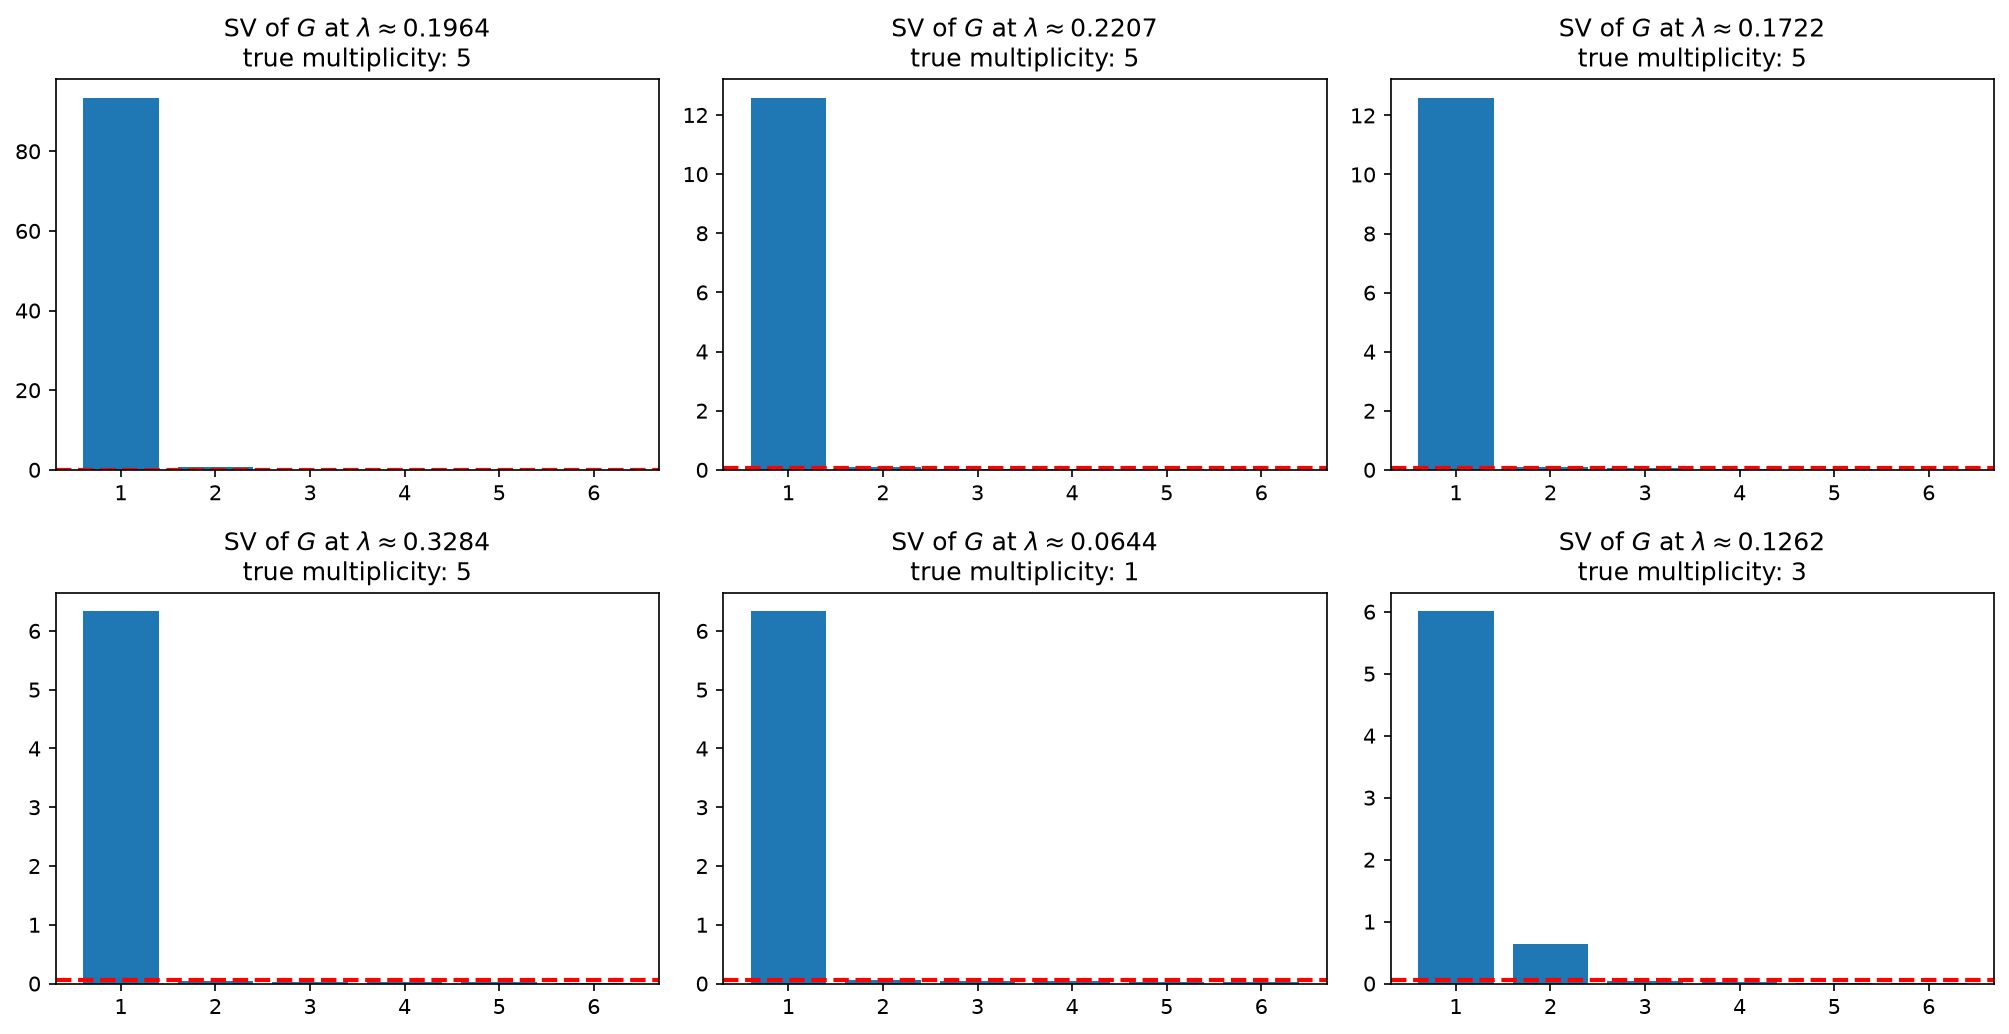
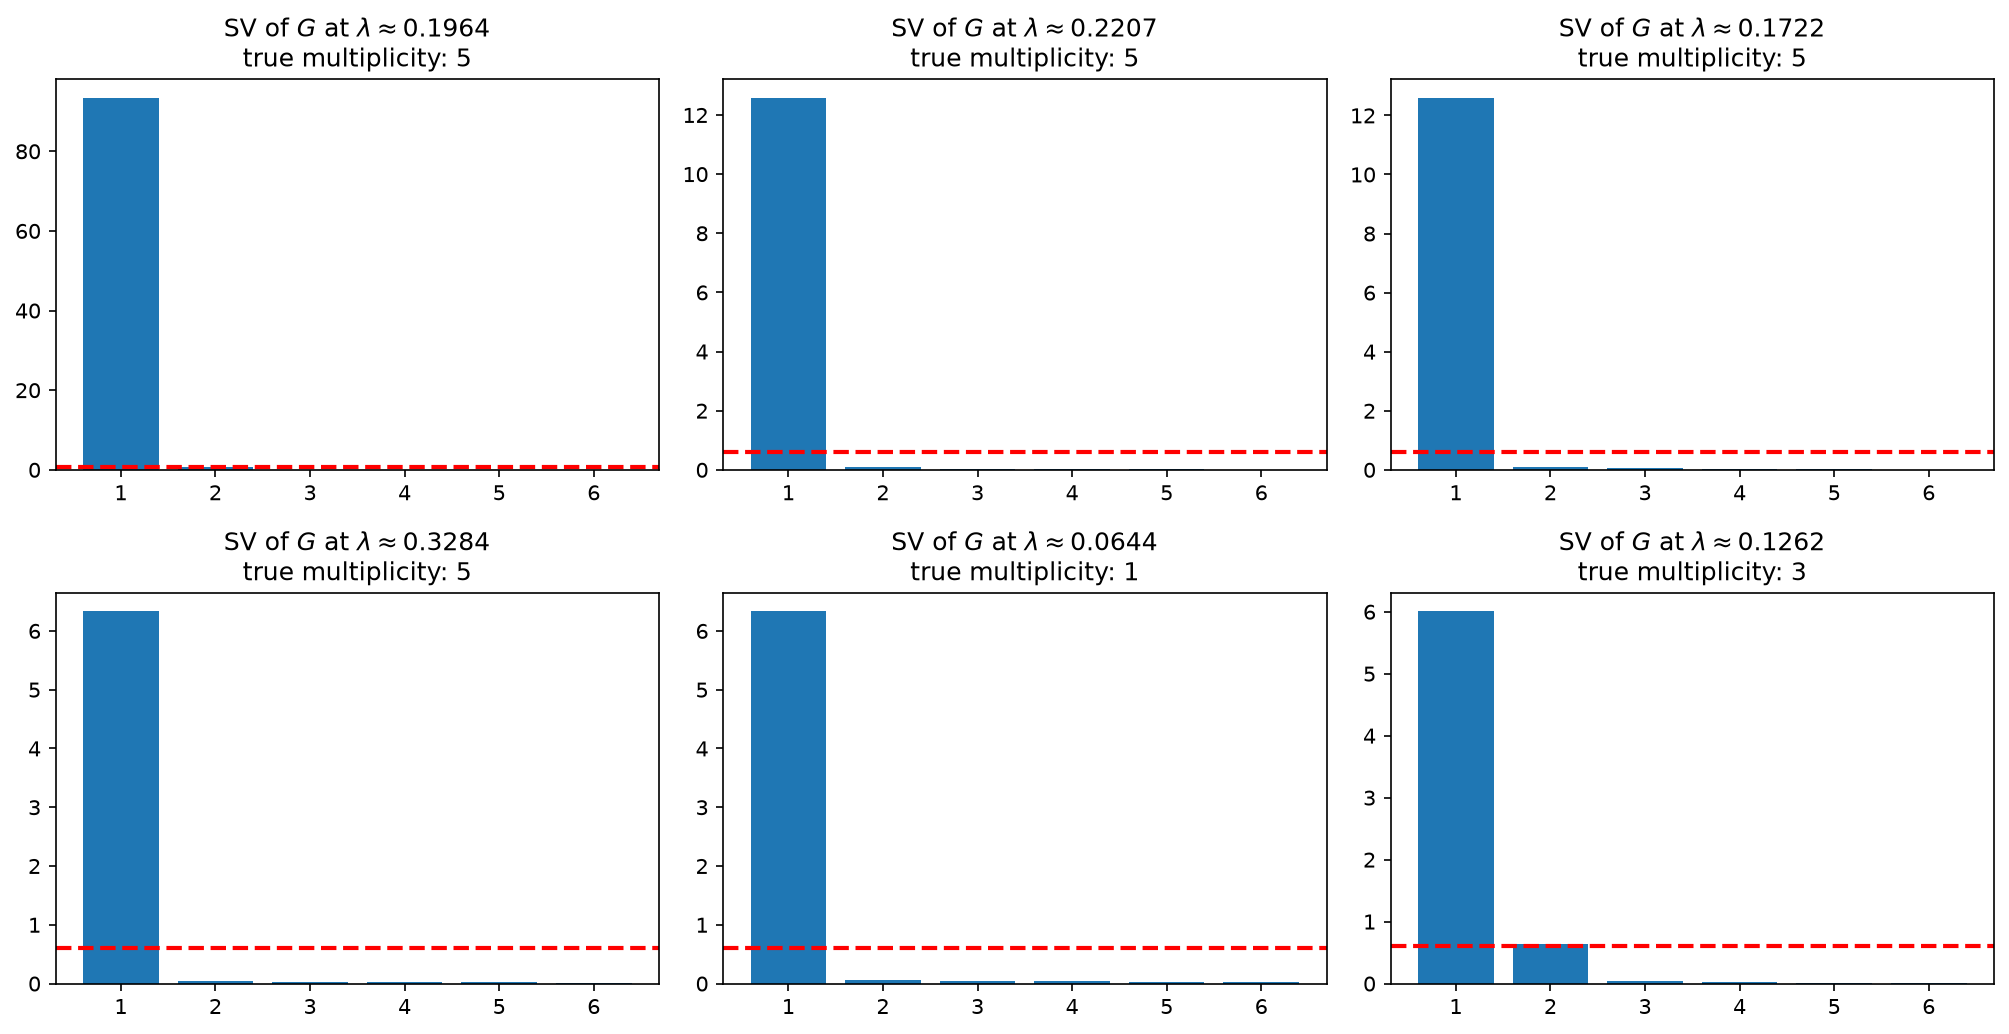
updated QFAMES_SV.py

Changed region(s): [[0.6789, 0.4333, 0.9876, 0.4642], [0.3703, 0.4333, 0.6481, 0.4642], [0.2469, 0.8975, 0.2778, 0.9594]]

diff --git a/QFAMES_SV.py b/QFAMES_SV.py
@@ -69,6 +69,12 @@ def parse_args():
         help="Z-tensor's generation method for QFAMES and TSRHSE (default: circuit)",
     )
     parser.add_argument(
+        "--plotting",
+        type=int,
+        default="0",
+        help="Z-tensor's generation method for QFAMES and TSRHSE (default: circuit)",
+    )
+    parser.add_argument(
         "--perturbations",
         type=str,
         default=",".join(PERTURBATION_OPTIONS),
@@ -123,7 +129,7 @@ def select_diverse_columns(PHI, eigenvalues, target_count, tol=1e-6):
 
     return PHI[:, selected_cols]
 
-def QFAMES_WITH_PLOTS(Z, dx, t_list, K, T, tau, alpha, true_multiplicities, path, verbose=False):
+def QFAMES_WITH_PLOTS(Z, dx, t_list, K, T, tau, alpha, true_multiplicities, path, verbose=False, plotting=False):
     """
     nonorthogonal QMEGS algorithm
 
@@ -189,7 +195,227 @@ def QFAMES_WITH_PLOTS(Z, dx, t_list, K, T, tau, alpha, true_multiplicities, path
         # print('interval_min=',interval_min,'interval_max=',interval_max)
         G=np.multiply(G,x_rough>interval_max)+np.multiply(G,x_rough<interval_min) #eliminate interval
 
-    plotting.plot_G(Dominant_freq, svs, tau, path, true_multiplicities=true_multiplicities)
+    if plotting:
+        plotting.plot_G(Dominant_freq, svs, tau, path, true_multiplicities=true_multiplicities)
+
+    # Bundle each eigenvalue with its multiplicity so the pairing is never lost
+    clusters = [
+        EigenCluster(eigenvalue=float(np.real(Dominant_freq[k])), multiplicity=int(Dominant_num[k]))
+        for k in range(K)
+        if Dominant_num[k] > 0 or not np.isnan(Dominant_freq[k])
+    ]
+    clusters.sort(key=lambda c: c.eigenvalue)
+
+    if verbose:
+        return clusters, Dominant_vector
+    else:
+        return clusters
+
+def naive_adaptive_multiplicity(S, gap_threshold=0.3):
+    """
+    S: singular values in descending order, from np.linalg.svd
+    gap_threshold: minimum relative drop to declare the gap
+    
+    For each consecutive pair, compute the relative drop:
+        drop_j = 1 - S[j+1]/S[j]
+    The multiplicity is the position of the first drop exceeding gap_threshold.
+    """
+    if len(S) == 0 or S[0] < 1e-10:
+        return 0
+    # Normalize by S[0]
+    s = S / S[0]
+    # Find the first large relative drop
+    for j in range(len(s) - 1):
+        if s[j+1] / s[j] < (1 - gap_threshold):
+            return j + 1
+    return len(s)  # all SVs are signal
+
+def naive_adaptive_QFAMES(Z, dx, t_list, K, T, alpha, adaptivity, true_multiplicities, verbose=False):
+    """
+    nonorthogonal QMEGS algorithm
+
+    To avoid long classical running time, we first do a rough search
+    then do a detailed search around the rough maximal point.
+    """
+    L = len(Z[:,0,0])
+    R = len(Z[0,:,0])
+    N = len(Z[0,0,:])
+    W = np.zeros((L, R), dtype='complex') #Store data matrix
+    num_x=int(2*np.pi/(dx*10))
+    num_x_detail=int(2/dx/T)
+    x_rough=np.arange(0,num_x)*dx*10-np.pi
+    G = np.zeros(len(x_rough), dtype='complex') #Store Frobenius norm of the data matrix (for rough search)
+    for l in range(L):
+        for r in range(R):
+            G += np.abs(Z[l, r, :].dot(np.exp(1j*np.outer(t_list,x_rough)))/N)**2
+    Dominant_freq=np.zeros(K,dtype='complex')
+    Dominant_num=np.zeros(K,dtype='int')
+    Dominant_vector=[]
+    num_found = 0
+    svs = np.zeros([L, K], dtype=complex)
+    for k in range(K):
+        max_idx_rough = np.argmax(G) # Rough search
+        # print('maxG',max(G))
+        if G[max_idx_rough] < 1e-6:
+            if verbose: print('No more clusters found, exiting early.')
+            break
+        num_found += 1
+        Dominant_potential=x_rough[max_idx_rough]
+        x=np.arange(0,num_x_detail)*dx+Dominant_potential-1/T
+        G_detail = np.zeros(len(x), dtype='complex') #Store Frobenius norm of the data matrix (for detail search)
+        for l in range(L):
+            for r in range(R):
+                G_detail += np.abs(Z[l, r, :].dot(np.exp(1j*np.outer(t_list,x)))/N)**2
+        max_idx_detail = np.argmax(G_detail) # Detail search
+        Dominant_freq[k]=x[max_idx_detail] #one cluster found
+
+        # Calculate the number of eigenvalues in the cluster
+        for l in range(L):
+            for r in range(R):
+                W[l,r] = Z[l, r, :].dot(np.exp(1j*t_list*Dominant_freq[k]))/N
+        U, S, V = np.linalg.svd(W)
+        svs[:, k] = S
+        V = V.conj().T
+
+        Dominant_num[k] = naive_adaptive_multiplicity(S, adaptivity)
+
+        if Dominant_num[k]>0: #if there is a cluster, calculate the orthogonal vector space
+        #    print('k=',k,'S=',S)
+            # Calculate the orthogonal vector space of the cluster
+           if verbose:
+                if L>R:
+                    Dominant_vector.append(U[:,Dominant_num[k]:])
+                else:
+                    Dominant_vector.append(V[:,Dominant_num[k]:])
+        # interval_max=x[max_idx_detail]+alpha/T
+        # interval_min=x[max_idx_detail]-alpha/T
+        min_exclusion = 6 * dx * 10  # at minimum exclude 3 rough grid steps on each side
+        interval_half = max(alpha / T, min_exclusion)
+        interval_max = x[max_idx_detail] + interval_half
+        interval_min = x[max_idx_detail] - interval_half
+
+        # print('interval_min=',interval_min,'interval_max=',interval_max)
+        G=np.multiply(G,x_rough>interval_max)+np.multiply(G,x_rough<interval_min) #eliminate interval
+
+    # Bundle each eigenvalue with its multiplicity so the pairing is never lost
+    clusters = [
+        EigenCluster(eigenvalue=float(np.real(Dominant_freq[k])), multiplicity=int(Dominant_num[k]))
+        for k in range(K)
+        if Dominant_num[k] > 0 or not np.isnan(Dominant_freq[k])
+    ]
+    clusters.sort(key=lambda c: c.eigenvalue)
+
+    if verbose:
+        return clusters, Dominant_vector
+    else:
+        return clusters
+
+def robust_adaptive_multiplicity(Z, t_list, theta_star, N, L, R, T, relative_floor=0.05):
+    """
+    Count signal SVs using local maximality at theta_star.
+    
+    Genuine degenerate SVs peak AT theta_star.
+    Aliased SVs from neighbors peak AWAY from theta_star.
+    
+    Parameters
+    ----------
+    relative_floor : float
+        Minimum σ_j / σ_1 to consider a SV as potentially signal (default 0.05).
+        Filters out floating-point noise SVs that might accidentally be local maxima.
+    """
+    eps = 1.0 / (4.0 * T)   # quarter-resolution step; much smaller than any eigenvalue gap
+    
+    def compute_W_at(theta):
+        W = np.zeros((L, R), dtype='complex')
+        for l in range(L):
+            for r in range(R):
+                W[l, r] = Z[l, r, :].dot(np.exp(1j * t_list * theta)) / N
+        return W
+    
+    S0 = np.linalg.svd(compute_W_at(theta_star),         compute_uv=False)
+    Sp = np.linalg.svd(compute_W_at(theta_star + eps),   compute_uv=False)
+    Sm = np.linalg.svd(compute_W_at(theta_star - eps),   compute_uv=False)
+    
+    if S0[0] < 1e-10:
+        return 0
+    
+    count = 0
+    for j in range(len(S0)):
+        is_local_max = (S0[j] >= Sp[j]) and (S0[j] >= Sm[j])
+        is_above_floor = (S0[j] / S0[0]) > relative_floor
+        if is_local_max and is_above_floor:
+            count += 1
+        else:
+            break   # SVs are sorted — once we hit non-signal, all subsequent are too
+    
+    return max(count, 1)   # always at least 1 since we found a G peak
+
+def robust_adaptive_QFAMES(Z, dx, t_list, K, T, alpha, adaptivity, true_multiplicities, verbose=False):
+    """
+    nonorthogonal QMEGS algorithm
+
+    To avoid long classical running time, we first do a rough search
+    then do a detailed search around the rough maximal point.
+    """
+    L = len(Z[:,0,0])
+    R = len(Z[0,:,0])
+    N = len(Z[0,0,:])
+    W = np.zeros((L, R), dtype='complex') #Store data matrix
+    num_x=int(2*np.pi/(dx*10))
+    num_x_detail=int(2/dx/T)
+    x_rough=np.arange(0,num_x)*dx*10-np.pi
+    G = np.zeros(len(x_rough), dtype='complex') #Store Frobenius norm of the data matrix (for rough search)
+    for l in range(L):
+        for r in range(R):
+            G += np.abs(Z[l, r, :].dot(np.exp(1j*np.outer(t_list,x_rough)))/N)**2
+    Dominant_freq=np.zeros(K,dtype='complex')
+    Dominant_num=np.zeros(K,dtype='int')
+    Dominant_vector=[]
+    num_found = 0
+    svs = np.zeros([L, K], dtype=complex)
+    for k in range(K):
+        max_idx_rough = np.argmax(G) # Rough search
+        # print('maxG',max(G))
+        if G[max_idx_rough] < 1e-6:
+            if verbose: print('No more clusters found, exiting early.')
+            break
+        num_found += 1
+        Dominant_potential=x_rough[max_idx_rough]
+        x=np.arange(0,num_x_detail)*dx+Dominant_potential-1/T
+        G_detail = np.zeros(len(x), dtype='complex') #Store Frobenius norm of the data matrix (for detail search)
+        for l in range(L):
+            for r in range(R):
+                G_detail += np.abs(Z[l, r, :].dot(np.exp(1j*np.outer(t_list,x)))/N)**2
+        max_idx_detail = np.argmax(G_detail) # Detail search
+        Dominant_freq[k]=x[max_idx_detail] #one cluster found
+
+        # Calculate the number of eigenvalues in the cluster
+        for l in range(L):
+            for r in range(R):
+                W[l,r] = Z[l, r, :].dot(np.exp(1j*t_list*Dominant_freq[k]))/N
+        U, S, V = np.linalg.svd(W)
+        svs[:, k] = S
+        V = V.conj().T
+
+        Dominant_num[k] = robust_adaptive_multiplicity(Z, t_list, Dominant_freq[k], N, L, R, T, relative_floor=adaptivity)
+
+        if Dominant_num[k]>0: #if there is a cluster, calculate the orthogonal vector space
+        #    print('k=',k,'S=',S)
+            # Calculate the orthogonal vector space of the cluster
+           if verbose:
+                if L>R:
+                    Dominant_vector.append(U[:,Dominant_num[k]:])
+                else:
+                    Dominant_vector.append(V[:,Dominant_num[k]:])
+        # interval_max=x[max_idx_detail]+alpha/T
+        # interval_min=x[max_idx_detail]-alpha/T
+        min_exclusion = 6 * dx * 10  # at minimum exclude 3 rough grid steps on each side
+        interval_half = max(alpha / T, min_exclusion)
+        interval_max = x[max_idx_detail] + interval_half
+        interval_min = x[max_idx_detail] - interval_half
+
+        # print('interval_min=',interval_min,'interval_max=',interval_max)
+        G=np.multiply(G,x_rough>interval_max)+np.multiply(G,x_rough<interval_min) #eliminate interval
 
     # Bundle each eigenvalue with its multiplicity so the pairing is never lost
     clusters = [
@@ -279,6 +505,9 @@ def main():
     print(f"Target eigenvalue: {eigenvalue}")
     # print(f"Eigenvectors: \n{eigenvectors}")
 
+    adaptive_tolerance_1 = np.sqrt(L*R)*np.array([0.1, 0.01])
+    adaptive_tolerance_2 = np.array([0.15, 0.3, 0.5, 0.7, 0.75, 0.8])
+    adaptive_tolerance_3 = np.array([0.025, 0.05, 0.75, 0.1, 0.15])
     T_max_array = np.array([200]) # scaling T_max
     all_perturbation_params = { # scale perturbations
         "None": {"range": None, "scale": None},
@@ -347,17 +576,41 @@ def main():
             else:
                 raise ValueError(f"Method {method} is unsurported, choose either \"numeric\" or \"circuit\"")
 
-            # QFAMES
-            start_time = time.perf_counter()
-            clusters = QFAMES_WITH_PLOTS(Z, dx, t_list, min(L, R), T_max_alg, tau, alpha, dict_multiplicities, f"{path}_EXP1.png")
-            plotting.plot_sv_vs_theta(Z, t_list, T_max_alg, tau, dict_multiplicities, path=f"{path}_EXP2.png")
-            end_time = time.perf_counter()
+            # Original QFAMES
+            for val in adaptive_tolerance_1:
+                start_time = time.perf_counter()
+                clusters = QFAMES_WITH_PLOTS(Z, dx, t_list, min(L, R), T_max_alg, val, alpha, dict_multiplicities, f"{path}_EXP1.png", False)
+                end_time = time.perf_counter()
 
-            print(f"\t\tfinished QFAMES with plots in {end_time - start_time:.6f} seconds")
+                est_eigenvalue = [c.eigenvalue for c in clusters] # already sorted by eigenvalue
+                multiplicities = str({c.eigenvalue: c.multiplicity for c in clusters})
 
-            est_eigenvalue = [c.eigenvalue for c in clusters] # already sorted by eigenvalue
-            multiplicities = str({c.eigenvalue: c.multiplicity for c in clusters})
+                print(f"\t\tfinished original QFAMES with tau = {val:g} in {end_time - start_time:.6f} seconds")
+                print(f"\t\t\t{multiplicities}")
 
-            print(f"\t\t{multiplicities}")
+            # Naive Adaptive QFAMES
+            for val in adaptive_tolerance_2:
+                start_time = time.perf_counter()
+                clusters = naive_adaptive_QFAMES(Z, dx, t_list, min(L, R), T_max_alg, alpha, val, dict_multiplicities)
+                end_time = time.perf_counter()
+                
+                est_eigenvalue = [c.eigenvalue for c in clusters] # already sorted by eigenvalue
+                multiplicities = str({c.eigenvalue: c.multiplicity for c in clusters})
+
+                print(f"\t\tfinished naive adaptive QFAMES with adaptive tolerance = {val} in {end_time - start_time:.6f} seconds")
+                print(f"\t\t\t{multiplicities}")
+
+            # Robust Adaptive QFAMES
+            for val in adaptive_tolerance_3:
+                start_time = time.perf_counter()
+                clusters = robust_adaptive_QFAMES(Z, dx, t_list, min(L, R), T_max_alg, alpha, val, dict_multiplicities)
+                end_time = time.perf_counter()
+
+                est_eigenvalue = [c.eigenvalue for c in clusters] # already sorted by eigenvalue
+                multiplicities = str({c.eigenvalue: c.multiplicity for c in clusters})
+
+                print(f"\t\tfinished robust adaptive QFAMES with adaptive tolerance = {val} in {end_time - start_time:.6f} seconds")
+                print(f"\t\t\t{multiplicities}")
+
 if __name__ == "__main__":
     main()
